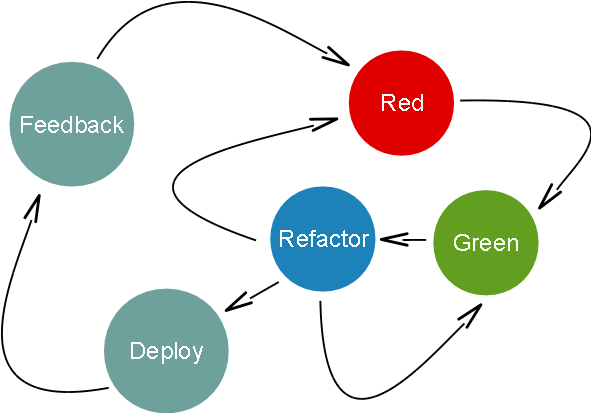
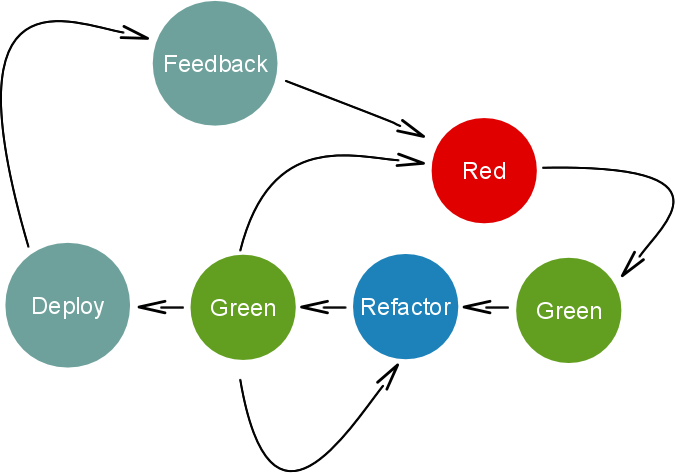
More slides

diff --git a/index.html b/index.html
@@ -4,10 +4,10 @@
 	<head>
 		<meta charset="utf-8">
 
-		<title>XP at Unruly</title>
+		<title>Continuous Delivery at Unruly</title>
 
-		<meta name="description" content="XP at Unruly">
-		<meta name="author" content="Benjamin Weber">
+		<meta name="description" content="Continuous Delivery at Unruly">
+		<meta name="author" content="Benjamin Weber &amp; Alex Wilson">
 
 		<meta name="apple-mobile-web-app-capable" content="yes" />
 		<meta name="apple-mobile-web-app-status-bar-style" content="black-translucent" />
@@ -152,6 +152,10 @@
 					</ul>
 				</section>
 
+				<section class="big">
+					<h2>TDD-D</h2>
+					<img src="red_green_refactor_deploy_feedback.png" class="nomargin"/>
+				</section>
 				
         <!-- INFRASTRUCTURE GOES HERE -->
 
